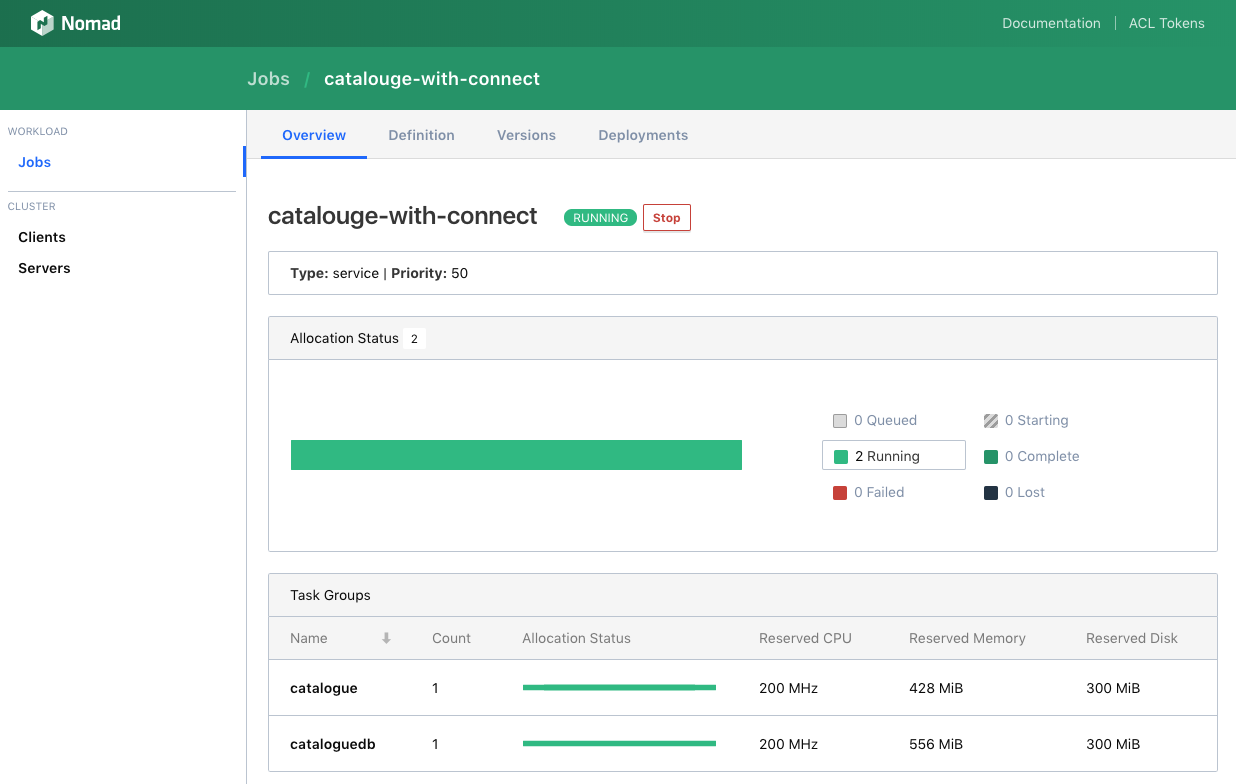
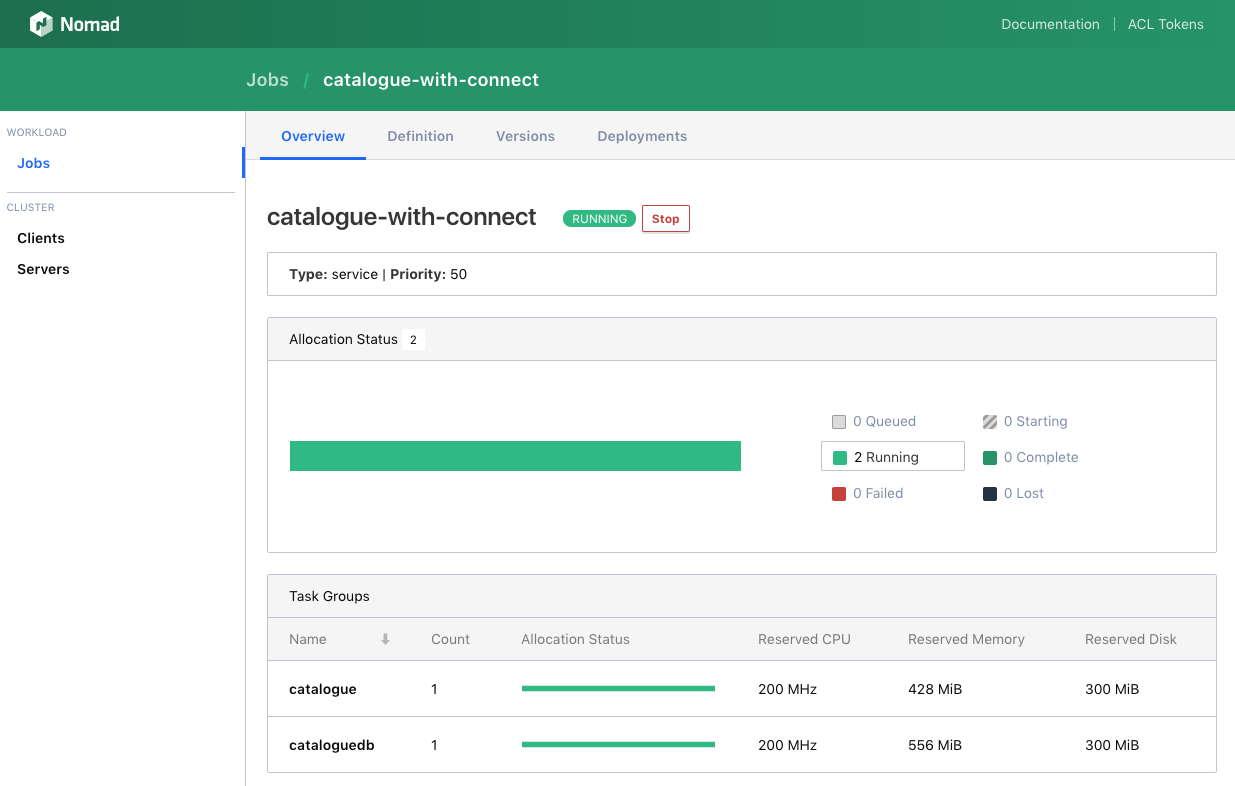
new AMI with corrected job name

diff --git a/README.md b/README.md
@@ -42,7 +42,7 @@ Please execute the following commands and instructions to configure your Vault s
 ## Step 1: Create a New AMI with Packer (optional)
 You can now use Packer and Terraform to provision your AWS EC2 instances along with other AWS infrastructure.
 
-We have already used Packer to create Amazon Machine Image ami-0826fa9bac2e9aae2 which uses Nomad 0.8.6 and Consul 1.3.0. You can use this as the basis for your EC2 instances. This AMI only exists in the AWS us-east-1 region. If you want to create a similar AMI in a different region or if you make any changes to any of the files in the shared directory, you will need to create your own AMI with Packer. This is very simple. Starting from the home directory, do the following (being sure to specify the region and a vaid source_ami for that region in packer.json if the region is different from us-east-1):
+We have already used Packer to create Amazon Machine Image ami-003ed29221ce4a111 which uses Nomad 0.8.6 and Consul 1.3.0. You can use this as the basis for your EC2 instances. This AMI only exists in the AWS us-east-1 region. If you want to create a similar AMI in a different region or if you make any changes to any of the files in the shared directory, you will need to create your own AMI with Packer. This is very simple. Starting from the home directory, do the following (being sure to specify the region and a vaid source_ami for that region in packer.json if the region is different from us-east-1):
 
 ```
 export AWS_ACCESS_KEY_ID=<your_aws_key>
@@ -121,8 +121,6 @@ In the Consul UI (http://<server_ip>:8500), do the following:
 1. For now, create an "Allow" intention.
 1. Click the Save button to save the intention.
 
-![Screenshot](ConsulIntention.png)
-
 ## Step 11: Testing the Catalogue Application and Consul Connect
 You can now test the catalogue application using the curl commands below. First test with the intention you created set to Allow.  Then test with the intention set to Deny. You can run these curl commands from the Nomad server or the Nomad clients. Note that Consul is doing service discovery in addition to service segmentation, resolving "catalogue" to "catalogue.service.consul" and determining which host the app is running on.
 
@@ -148,6 +146,8 @@ You can now test the catalogue application using the curl commands below. First 
 
 1. In the Consul UI, click the "..." icon to the right of the intention you created and select "Edit".
 1. Change the intention from Allow to Deny and save it.
+![Screenshot](ConsulIntention.png)
+
 1. Repeat the above curl command.  You should see the error below which proves that Consul Connect is now blocking the communication between the catalogue app and the catalogue-db database:
 
 ```
